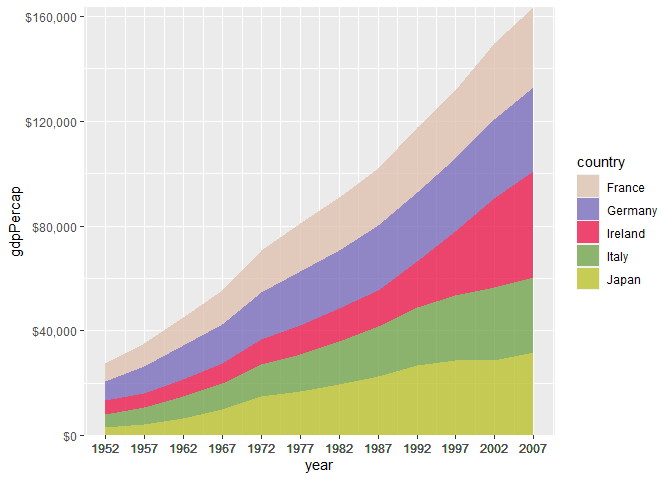
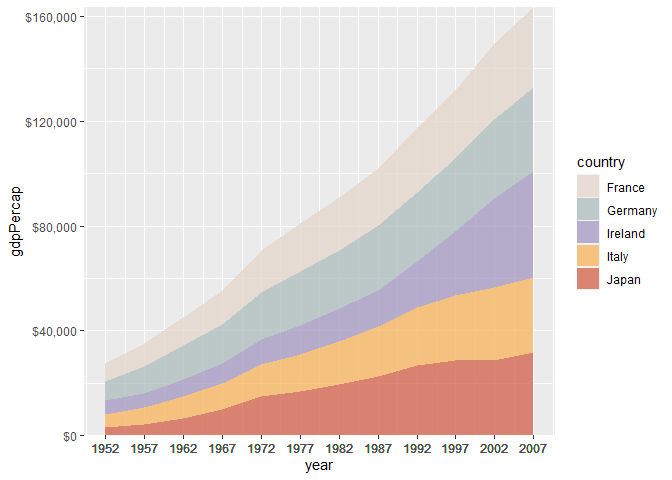
revise readme layout

Changed region(s): [[0.1562, 0.1875, 0.8125, 0.9062], [0.8438, 0.4062, 0.9062, 0.625]]

diff --git a/README.md b/README.md
@@ -17,6 +17,27 @@ README](https://github.com/johnmackintosh/rockthemes/workflows/Render%20README/b
 
 <!-- badges: end -->
 
+## What?
+
+This is a collection of colour palettes based on classic rock album
+covers.
+
+Not all of the artists are ‘rock’, but they appeared in lists of classic
+rock album covers and the internet is never wrong.
+
+The albums were chosen either for their striking covers (in terms of
+colour), or simply, because they are bona fide rock classics.
+
+Your job is to guess which is which.
+
+## Why?
+
+Because [this repo of Metallica inspired
+palettes](https://github.com/johnmackintosh/metallicaRt) has been
+received quite well on various social media platforms, and I figured
+that there were other albums with interesting covers that might provide
+more scope for data visualisation purposes.
+
 ## Installation
 
 This will probably not go to CRAN, so please install using the remotes
@@ -42,49 +63,7 @@ library(scales)
 library(gapminder)
 ```
 
-## What?
-
-This is a collection of colour palettes based on classic rock album
-covers.
-
-Not all of the artists are ‘rock’, but they appeared in lists of classic
-rock album covers and the internet is never wrong.
-
-The albums were chosen either for their striking covers (in terms of
-colour), or simply, because they are bona fide rock classics.
-
-Your job is to guess which is which.
-
-## Why?
-
-Because [this repo of Metallica inspired
-palettes](https://github.com/johnmackintosh/metallicaRt) has been
-received quite well on various social media platforms
-
-## Credit
-
-[Thanks to Ryo for the tvthemes
-package](https://github.com/Ryo-N7/tvthemes) which helped me get this
-off the ground quickly
-
-## Code of Conduct
-
-Please note that the rockthemes project is released with a [Contributor
-Code of
-Conduct](https://contributor-covenant.org/version/2/0/CODE_OF_CONDUCT.html).
-
-By contributing to this project, you agree to abide by its terms.
-
-## Contributing
-
-PR’s are welcome, if you feel there is a glaring omission.
-
-Please include an image of the album cover, relevant code.
-
-Please try to keep artists / albums in chronological order in the
-readme.
-
-Don’t forget to update the name param of the  function
+# Palettes and Themes
 
 ## Californication
 
@@ -433,21 +412,37 @@ show_col(tencc_pal()(10))
 
 ![](man/figures/README-unnamed-chunk-39-1.png)<!-- -->
 
+## Credit
+
+[Thanks to Ryo for the tvthemes
+package](https://github.com/Ryo-N7/tvthemes) which helped me get this
+off the ground quickly
+
+## Code of Conduct
+
+Please note that the rockthemes project is released with a [Contributor
+Code of
+Conduct](https://contributor-covenant.org/version/2/0/CODE_OF_CONDUCT.html).
+
+By contributing to this project, you agree to abide by its terms.
+
+## Contributing
+
+PR’s are welcome, if you feel there is a glaring omission.
+
+Please include an image of the album cover, relevant code.
+
+Please try to keep artists / albums in chronological order in the
+readme.
+
+Don’t forget to update the name param of the rock\_palette function
+
+## More ggplot2 examples
+
 ``` r
 data <- gapminder::gapminder %>% 
     filter(country %in% c("France", "Germany", "Ireland", "Italy", "Japan")) %>% 
     mutate(year = as.Date(paste(year, "-01-01", sep = "", format = '%Y-%b-%d')))
-
-ggplot(data = data, aes(x = year, y = gdpPercap, fill = country)) +
-    geom_area(alpha = 0.8) +
-    scale_x_date(breaks = data$year, date_labels = "%Y") +
-    scale_y_continuous(expand = c(0, 0), labels = scales::dollar) +
-    scale_fill_taylor()
-```
-
-![](man/figures/README-unnamed-chunk-40-1.png)<!-- -->
-
-``` r
     
 ggplot(data = data, aes(x = year, y = gdpPercap, fill = country)) +
     geom_area(alpha = 0.8) +
@@ -456,7 +451,7 @@ ggplot(data = data, aes(x = year, y = gdpPercap, fill = country)) +
     scale_fill_tencc()
 ```
 
-![](man/figures/README-unnamed-chunk-40-2.png)<!-- -->
+![](man/figures/README-unnamed-chunk-40-1.png)<!-- -->
 
 ``` r
     
@@ -467,7 +462,7 @@ ggplot(data = data, aes(x = year, y = gdpPercap, fill = country)) +
     scale_fill_husker()
 ```
 
-![](man/figures/README-unnamed-chunk-40-3.png)<!-- -->
+![](man/figures/README-unnamed-chunk-40-2.png)<!-- -->
 
 ``` r
     
@@ -479,34 +474,10 @@ ggplot(data = data, aes(x = year, y = gdpPercap, fill = country)) +
     scale_fill_janelle()
 ```
 
-![](man/figures/README-unnamed-chunk-40-4.png)<!-- -->
+![](man/figures/README-unnamed-chunk-40-3.png)<!-- -->
 
 ``` r
-    
-    
-    ggplot(data = data, aes(x = year, y = gdpPercap, fill = country)) +
-    geom_area(alpha = 0.8) +
-    scale_x_date(breaks = data$year, date_labels = "%Y") +
-    scale_y_continuous(expand = c(0, 0), labels = scales::dollar) +
-    scale_fill_californication()
-```
-
-![](man/figures/README-unnamed-chunk-40-5.png)<!-- -->
-
-``` r
-    
-    ggplot(data = data, aes(x = year, y = gdpPercap, fill = country)) +
-    geom_area(alpha = 0.8) +
-    scale_x_date(breaks = data$year, date_labels = "%Y") +
-    scale_y_continuous(expand = c(0, 0), labels = scales::dollar) +
-    scale_fill_miles()
-```
-
-![](man/figures/README-unnamed-chunk-40-6.png)<!-- -->
-
-``` r
-    
-    
+  
     ggplot(data = data, aes(x = year, y = gdpPercap, fill = country)) +
     geom_area(alpha = 0.8) +
     scale_x_date(breaks = data$year, date_labels = "%Y") +
@@ -514,7 +485,7 @@ ggplot(data = data, aes(x = year, y = gdpPercap, fill = country)) +
     scale_fill_muse()
 ```
 
-![](man/figures/README-unnamed-chunk-40-7.png)<!-- -->
+![](man/figures/README-unnamed-chunk-40-4.png)<!-- -->
 
 ``` r
     
@@ -525,4 +496,4 @@ ggplot(data = data, aes(x = year, y = gdpPercap, fill = country)) +
     scale_fill_nodoubt()
 ```
 
-![](man/figures/README-unnamed-chunk-40-8.png)<!-- -->
+![](man/figures/README-unnamed-chunk-40-5.png)<!-- -->
